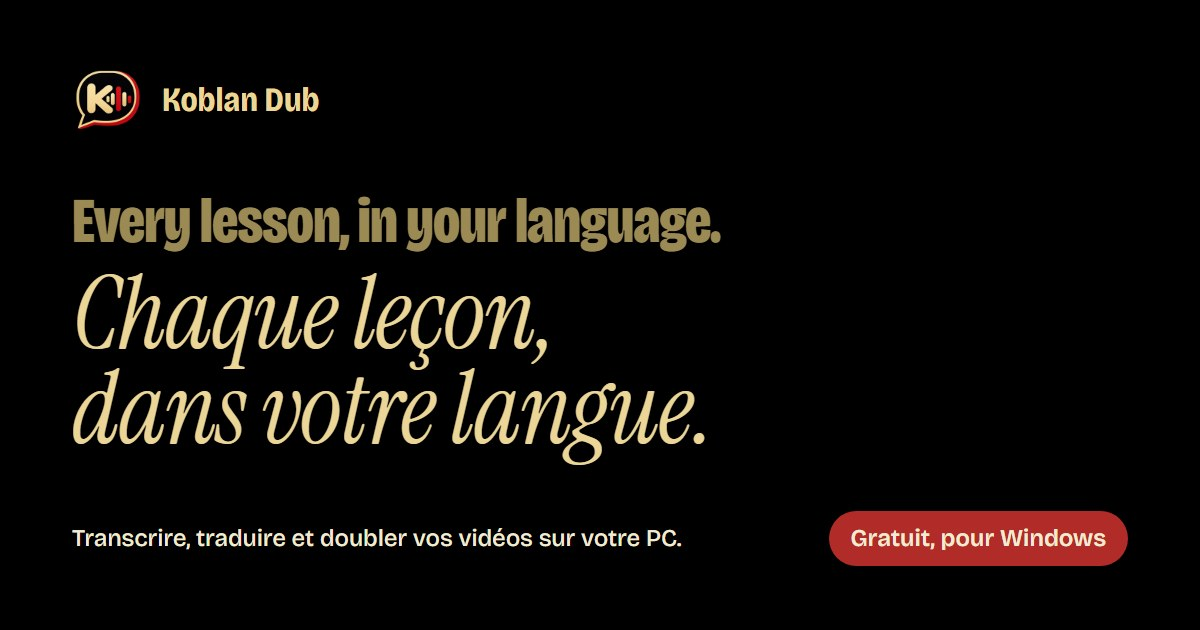
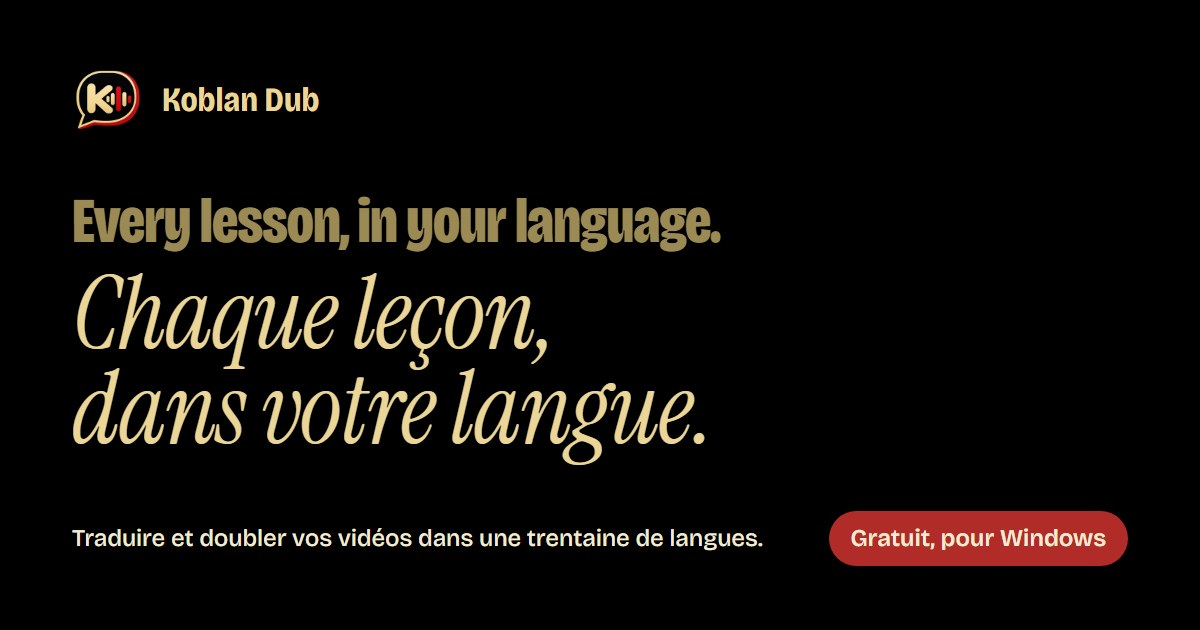
Site : toutes les langues (accueil en 5 langues, section langues), bouton Tout telecharger, FAQ fichier manquant

Changed region(s): [[0.0925, 0.8444, 0.6475, 0.8746]]

diff --git a/index.html b/index.html
@@ -4,11 +4,11 @@
 <meta charset="utf-8">
 <meta name="viewport" content="width=device-width, initial-scale=1">
 <title>Koblan Dub — traduire et doubler vos vidéos</title>
-<meta name="description" content="Koblan Dub transcrit, traduit et double vos vidéos dans votre langue, sur votre PC. Gratuit, pour Windows 10 et 11.">
+<meta name="description" content="Koblan Dub transcrit, traduit et double vos vidéos dans une trentaine de langues, sur votre PC. Gratuit, pour Windows 10 et 11.">
 <meta name="theme-color" content="#000000">
 <meta property="og:type" content="website">
 <meta property="og:title" content="Koblan Dub — chaque leçon, dans votre langue">
-<meta property="og:description" content="Transcrire, traduire et doubler une vidéo sur votre PC. Gratuit, pour Windows.">
+<meta property="og:description" content="Transcrire, traduire et doubler une vidéo dans une trentaine de langues, sur votre PC. Gratuit, pour Windows.">
 <meta property="og:image" content="https://koblan-dub.vercel.app/assets/img/partage.jpg">
 <meta name="twitter:card" content="summary_large_image">
 <link rel="icon" type="image/png" sizes="32x32" href="assets/favicon-32.png">
@@ -44,20 +44,20 @@
   <section class="accueil" id="haut" aria-labelledby="titre-accueil">
     <div class="accueil__scene">
       <h1 class="voix" id="titre-accueil" aria-label="Chaque leçon, dans votre langue.">
-        <span class="voix__ligne" data-en="Every lesson," data-fr="Chaque leçon,">Chaque leçon,</span>
-        <span class="voix__ligne" data-en="in your language." data-fr="dans votre langue.">dans votre langue.</span>
+        <span class="voix__ligne" data-l="Every lesson,|Cada lección,|Jede Lektion,|Cada lição,|Chaque leçon,">Chaque leçon,</span>
+        <span class="voix__ligne" data-l="in your language.|en tu idioma.|in deiner Sprache.|no seu idioma.|dans votre langue.">dans votre langue.</span>
       </h1>
 
       <div class="piste" aria-hidden="true">
         <span class="piste__rec"></span>
         <span class="piste__tc">00:00:01,200 --&gt; 00:00:03,800</span>
-        <span class="piste__langue">Voix doublée, français</span>
+        <span class="piste__langue">Doublée en français</span>
       </div>
 
       <canvas class="onde" aria-hidden="true"></canvas>
 
       <div class="accueil__pied">
-        <p class="accueil__texte">Koblan Dub transcrit, traduit et double vos vidéos, directement sur votre PC. Gratuit, pour Windows.</p>
+        <p class="accueil__texte">Koblan Dub transcrit, traduit et double vos vidéos dans une trentaine de langues, directement sur votre PC. Gratuit, pour Windows.</p>
         <div class="accueil__actions">
           <a class="bouton bouton--rouge bouton--grand aimant" href="#telecharger">
             <svg class="ico" aria-hidden="true"><use href="assets/icones.svg#i-download-simple"/></svg>
@@ -73,15 +73,30 @@
   <section class="bloc atelier" id="atelier" aria-labelledby="titre-atelier">
     <div class="bloc__tete">
       <h2 id="titre-atelier">Tout se règle sur un seul écran.</h2>
-      <p>Choisissez la vidéo, cliquez sur Démarrer. Le reste est déjà réglé : anglais vers français, voix française, sous-titres incrustés, sortie en MP4.</p>
+      <p>Choisissez la vidéo et la langue d'arrivée, cliquez sur Démarrer. Tout le reste est prêt : transcription, traduction, voix, sous-titres incrustés, sortie en MP4.</p>
     </div>
     <figure class="atelier__cadre">
       <img src="assets/img/atelier-1600.webp" srcset="assets/img/atelier-900.webp 900w, assets/img/atelier-1600.webp 1600w" sizes="(max-width: 900px) 100vw, 1200px" width="1600" height="849" loading="lazy" decoding="async" alt="L'écran principal de Koblan Dub : choix de la vidéo, transcription locale, traduction, voix française M2 et bouton Démarrer.">
     </figure>
-    <div class="soustitre" aria-label="Exemple de sous-titre avant et après">
-      <p class="soustitre__vo" lang="en">“Welcome to the course. Today, we’ll see how networks talk to each other.”</p>
-      <p class="soustitre__vf">« Bienvenue dans la formation. Aujourd’hui, nous allons voir comment les réseaux communiquent. »</p>
+  </section>
+
+  <!-- LANGUES -->
+  <section class="bloc langues" id="langues" aria-labelledby="titre-langues">
+    <div class="bloc__tete">
+      <h2 id="titre-langues">Une trentaine de langues, au départ comme à l'arrivée.</h2>
+      <p>Une formation en espagnol vers le français, un cours français vers l'anglais, une vidéo chinoise vers l'arabe : choisissez la langue de la vidéo et celle que vous voulez entendre.</p>
     </div>
+    <ul class="langues__liste">
+      <li>Français</li><li>Anglais</li><li>Espagnol</li><li>Portugais</li><li>Allemand</li><li>Italien</li>
+      <li>Néerlandais</li><li>Arabe</li><li>Chinois simplifié</li><li>Chinois traditionnel</li><li>Cantonais</li>
+      <li>Japonais</li><li>Coréen</li><li>Hindi</li><li>Bengali</li><li>Ourdou</li><li>Persan</li><li>Turc</li>
+      <li>Russe</li><li>Ukrainien</li><li>Polonais</li><li>Tchèque</li><li>Hongrois</li><li>Grec</li><li>Suédois</li>
+      <li>Hébreu</li><li>Thaï</li><li>Vietnamien</li><li>Indonésien</li><li>Malais</li><li>Filipino</li><li>Kazakh</li>
+    </ul>
+    <p class="langues__note">
+      <svg class="ico" aria-hidden="true"><use href="assets/icones.svg#i-wifi-slash"/></svg>
+      <span>La transcription et la voix française intégrée fonctionnent sans connexion. La traduction (Google) et les voix des autres langues (Edge-TTS) sont gratuites et passent par internet.</span>
+    </p>
   </section>
 
   <!-- MODES -->
@@ -96,7 +111,7 @@
         <svg class="ico ico--mode" aria-hidden="true"><use href="assets/icones.svg#i-film-strip"/></svg>
         <div class="mode__texte">
           <h3>Traduire une vidéo</h3>
-          <p>Donnez une vidéo en anglais, récupérez-la doublée en français avec ses sous-titres. Transcription, traduction, voix et montage s'enchaînent seuls.</p>
+          <p>Donnez une vidéo dans une langue, récupérez-la doublée et sous-titrée dans une autre. Transcription, traduction, voix et montage s'enchaînent seuls.</p>
         </div>
         <div class="clip"><span class="clip__remplissage"></span><span class="clip__sortie">Vidéo MP4 doublée</span></div>
       </li>
@@ -171,7 +186,7 @@
       <li>
         <svg class="ico" aria-hidden="true"><use href="assets/icones.svg#i-chalkboard-teacher"/></svg>
         <h3>Celles et ceux qui se forment</h3>
-        <p>Ce cours en ligne acheté en anglais, suivez-le enfin dans votre langue.</p>
+        <p>Ce cours en ligne acheté dans une langue étrangère, suivez-le enfin dans la vôtre.</p>
       </li>
       <li>
         <svg class="ico" aria-hidden="true"><use href="assets/icones.svg#i-video-camera"/></svg>
@@ -204,8 +219,8 @@
     <ol class="etapes__liste">
       <li>
         <span class="etapes__num" aria-hidden="true">1</span>
-        <h3>Choisissez la vidéo</h3>
-        <p>Une seule, ou tout un dossier d'un coup.</p>
+        <h3>Choisissez la vidéo et la langue</h3>
+        <p>Une seule vidéo ou tout un dossier d'un coup, puis la langue que vous voulez entendre.</p>
       </li>
       <li>
         <span class="etapes__num" aria-hidden="true">2</span>
@@ -215,7 +230,7 @@
       <li>
         <span class="etapes__num" aria-hidden="true">3</span>
         <h3>Ouvrez le résultat</h3>
-        <p>Votre vidéo en MP4, avec la voix et les sous-titres en français.</p>
+        <p>Votre vidéo en MP4, avec la voix et les sous-titres dans la langue choisie.</p>
       </li>
     </ol>
     <p class="etapes__note">
@@ -228,9 +243,18 @@
   <section class="bloc telecharger" id="telecharger" aria-labelledby="titre-telecharger">
     <div class="bloc__tete">
       <h2 id="titre-telecharger">Télécharger Koblan Dub</h2>
-      <p>Gratuit, pour Windows 10 et 11 (64 bits). Le logiciel est livré en 4 fichiers, 4,1 Go au total : téléchargez-les tous.</p>
+      <p>Gratuit, pour Windows 10 et 11 (64 bits). Le logiciel pèse 4,1 Go : il est livré en 4 fichiers, que ce bouton télécharge d'un seul clic.</p>
     </div>
 
+    <div class="tout">
+      <button type="button" class="bouton bouton--rouge bouton--grand aimant" id="tout-telecharger">
+        <svg class="ico" aria-hidden="true"><use href="assets/icones.svg#i-download-simple"/></svg>
+        <span>Tout télécharger <span class="nowrap">(4 fichiers, 4,1&nbsp;Go)</span></span>
+      </button>
+      <p class="tout__etat" id="tout-etat" role="status" aria-live="polite"></p>
+    </div>
+
+    <p class="fichiers__titre">Ou fichier par fichier, si un téléchargement a échoué :</p>
     <ol class="fichiers">
       <li><a class="fichier" href="https://github.com/josuekoblan03-lab/koblan-dub/releases/download/v1.0/KoblanDub-Setup.exe">
         <span class="fichier__num" aria-hidden="true">1</span>
@@ -263,11 +287,11 @@
       <ol class="installer__etapes">
         <li>
           <svg class="ico" aria-hidden="true"><use href="assets/icones.svg#i-folder-simple"/></svg>
-          <p>Mettez les 4 fichiers <strong>dans le même dossier</strong>, sans les renommer.</p>
+          <p>Attendez la fin des 4 téléchargements : ils arrivent ensemble dans votre dossier <strong>Téléchargements</strong>. Laissez-les dans ce même dossier.</p>
         </li>
         <li>
           <svg class="ico" aria-hidden="true"><use href="assets/icones.svg#i-play"/></svg>
-          <p>Double-cliquez sur <strong>KoblanDub-Setup.exe</strong> et suivez les étapes.</p>
+          <p>Ouvrez <strong>KoblanDub-Setup.exe</strong> et suivez les étapes. Les 3 autres fichiers sont lus automatiquement.</p>
         </li>
         <li>
           <svg class="ico" aria-hidden="true"><use href="assets/icones.svg#i-shield-check"/></svg>
@@ -308,7 +332,7 @@ bbec8f13c3aee3efc68214296c04398cc3462800a4f33eee36a978a703a0b784  KoblanDub-Setu
       </details>
       <details>
         <summary>Quelles langues ?<svg class="ico" aria-hidden="true"><use href="assets/icones.svg#i-caret-down"/></svg></summary>
-        <p>Une trentaine, au départ comme à l'arrivée : anglais, français, espagnol, portugais, arabe, chinois, russe, allemand, japonais, turc et bien d'autres. Le logiciel est réglé par défaut de l'anglais vers le français. La voix intégrée est française ; pour doubler dans une autre langue, choisissez une voix Edge-TTS (en ligne).</p>
+        <p>Une trentaine, au départ comme à l'arrivée : français, anglais, espagnol, portugais, arabe, chinois, russe, allemand, japonais, turc et bien d'autres (la liste complète est plus haut). À l'installation, le logiciel est réglé de l'anglais vers le français : changez simplement la langue source et la langue cible. Pour doubler dans une autre langue que le français, choisissez une voix Edge-TTS (gratuite, en ligne).</p>
       </details>
       <details>
         <summary>Combien de temps prend une vidéo ?<svg class="ico" aria-hidden="true"><use href="assets/icones.svg#i-caret-down"/></svg></summary>
@@ -317,6 +341,10 @@ bbec8f13c3aee3efc68214296c04398cc3462800a4f33eee36a978a703a0b784  KoblanDub-Setu
       <details>
         <summary>Ma vidéo est sortie sans voix française.<svg class="ico" aria-hidden="true"><use href="assets/icones.svg#i-caret-down"/></svg></summary>
         <p>Vérifiez que la case « Voix » n'est pas réglée sur « No », puis relancez.</p>
+      </details>
+      <details>
+        <summary>L'installation réclame un fichier manquant.<svg class="ico" aria-hidden="true"><use href="assets/icones.svg#i-caret-down"/></svg></summary>
+        <p>Vérifiez que les 4 fichiers sont bien arrivés en entier dans le même dossier, et qu'ils portent exactement les noms ci-dessus. Si vous avez téléchargé un fichier deux fois, le navigateur a pu nommer la copie « KoblanDub-Setup-1 (1).bin » : gardez l'original et supprimez les copies. Un fichier interrompu se retélécharge avec la liste « fichier par fichier ».</p>
       </details>
       <details>
         <summary>Et sur Mac ou Linux ?<svg class="ico" aria-hidden="true"><use href="assets/icones.svg#i-caret-down"/></svg></summary>

diff --git a/main.js b/main.js
@@ -35,9 +35,12 @@
   });
 
   /* ---------- la phrase qui change de langue ---------- */
+  // anglais → espagnol → allemand → portugais → français : la voix change de langue à chaque étape
+  var LANGUES = ["Voix originale, anglais", "Doublée en espagnol", "Doublée en allemand", "Doublée en portugais", "Doublée en français"];
+  var ETAPES = LANGUES.length - 1;
   var lignes = Array.prototype.map.call(document.querySelectorAll(".voix__ligne"), function (el, li) {
-    var en = el.dataset.en, fr = el.dataset.fr;
-    var n = Math.max(en.length, fr.length);
+    var textes = el.dataset.l.split("|");
+    var n = Math.max.apply(null, textes.map(function (t) { return t.length; }));
     el.textContent = "";
     el.setAttribute("aria-hidden", "true");
     var cases = [];
@@ -47,27 +50,36 @@
       el.appendChild(s);
       cases.push(s);
     }
-    return { en: en, fr: fr, n: n, cases: cases, li: li };
+    return { textes: textes, n: n, cases: cases, li: li };
   });
 
   function lettre(c) { return (c === undefined || c === " ") ? ESPACE : c; }
 
-  // fenêtre de balayage : la tête de lecture traverse la phrase entre DEBUT et DEBUT + COURSE
-  var DEBUT = 0.06, COURSE = 0.7, FONDU = 0.12;
+  // p global (0..1) → étape k (passage de la langue k à k+1) et avancement local q (0..1)
+  function decouper(p) {
+    var x = Math.min(p, 0.99999) * ETAPES;
+    var k = Math.floor(x);
+    return { k: k, q: p >= 1 ? 1 : x - k };
+  }
+  // dans une étape, la tête de lecture traverse la phrase entre DEBUT et DEBUT + COURSE
+  var DEBUT = 0.05, COURSE = 0.62, FONDU = 0.2;
   function seuil(L, i) { return DEBUT + ((i + L.li * 1.5) / (L.n + 3)) * COURSE; }
+  function etatDe(index) { return index === 0 ? "src" : "cible"; }
 
   var dernier = -1;
   function rendre(p) {
     if (Math.abs(p - dernier) < 0.0015) return;
     dernier = p;
+    var d = decouper(p);
     lignes.forEach(function (L) {
+      var avant = L.textes[d.k], apres = L.textes[d.k + 1];
       for (var i = 0; i < L.n; i++) {
-        var q = (p - seuil(L, i)) / FONDU, etat, c;
-        if (q <= 0) { etat = "en"; c = L.en[i]; }
-        else if (q >= 1) { etat = "fr"; c = L.fr[i]; }
+        var q = (d.q - seuil(L, i)) / FONDU, etat, c;
+        if (q <= 0) { etat = etatDe(d.k); c = avant[i]; }
+        else if (q >= 1) { etat = etatDe(d.k + 1); c = apres[i]; }
         else {
           etat = "bruit";
-          var cible = L.fr[i];
+          var cible = apres[i];
           c = (cible === undefined || cible === " ") ? " " : GLYPHES.charAt((Math.random() * GLYPHES.length) | 0);
         }
         var s = L.cases[i], ch = lettre(c);
@@ -88,7 +100,9 @@
   function majPiste(p) {
     var debut = 1200 + Math.round(p * 5400);
     tc.textContent = horodatage(debut) + " --> " + horodatage(debut + 2600);
-    langue.textContent = p < 0.45 ? "Voix originale, anglais" : "Voix doublée, français";
+    var d = decouper(p);
+    var texte = LANGUES[d.q > DEBUT + COURSE / 2 ? d.k + 1 : d.k];
+    if (langue.textContent !== texte) langue.textContent = texte;
   }
 
   /* ---------- l'onde : barres arrondies comme le logo, la barre rouge balaie ---------- */
@@ -116,7 +130,7 @@
     ctx.clearRect(0, 0, W, H);
     var pas = W < 640 ? 7 : 9, l = Math.max(3, Math.round(pas * 0.5));
     var n = Math.floor(W / pas);
-    var balayage = Math.min(1, Math.max(0, (etat.p - DEBUT) / COURSE));
+    var balayage = Math.min(1, Math.max(0, (decouper(etat.p).q - DEBUT) / (COURSE + FONDU / 2)));
     var xRouge = balayage * (W - l);
     for (var i = 0; i < n; i++) {
       var x = i * pas;
@@ -155,7 +169,7 @@
     ScrollTrigger.create({
       trigger: ".accueil",
       start: "top top",
-      end: "+=120%",
+      end: "+=260%",
       pin: ".accueil__scene",
       scrub: true,
       onUpdate: function (self) {
@@ -177,6 +191,40 @@
         scaleX: 1, ease: "none",
         scrollTrigger: { trigger: m, start: "top 88%", end: "top 40%", scrub: true }
       });
+    });
+  }
+
+  /* ---------- « Tout télécharger » : les 4 fichiers, l'un après l'autre ---------- */
+  var boutonTout = document.getElementById("tout-telecharger");
+  var etatTout = document.getElementById("tout-etat");
+  if (boutonTout) {
+    boutonTout.addEventListener("click", function () {
+      var liens = Array.prototype.map.call(document.querySelectorAll(".fichier"), function (a) { return a.href; });
+      boutonTout.disabled = true;
+      etatTout.textContent = "Lancement des 4 téléchargements… Si votre navigateur demande d'autoriser plusieurs téléchargements, cliquez sur Autoriser.";
+      liens.forEach(function (url, i) {
+        setTimeout(function () {
+          var a = document.createElement("a");
+          a.href = url; a.rel = "noopener"; a.style.display = "none";
+          document.body.appendChild(a); a.click(); a.remove();
+          if (i === liens.length - 1) {
+            etatTout.textContent = "Les 4 téléchargements sont lancés. Quand ils sont tous terminés, ouvrez KoblanDub-Setup.exe depuis votre dossier Téléchargements.";
+            boutonTout.disabled = false;
+          }
+        }, i * 1500);
+      });
+    });
+  }
+
+  /* ---------- les langues s'allument une à une au défilement ---------- */
+  if (!reduit) {
+    var noms = document.querySelectorAll(".langues__liste li");
+    ScrollTrigger.create({
+      trigger: ".langues__liste", start: "top 80%", end: "bottom 45%", scrub: true,
+      onUpdate: function (self) {
+        var allumes = Math.round(self.progress * noms.length);
+        noms.forEach(function (li, i) { li.classList.toggle("allume", i < allumes); });
+      }
     });
   }
 

diff --git a/style.css b/style.css
@@ -93,6 +93,8 @@ ul, ol { padding: 0; list-style: none; }
 .bouton--trait { border: 1px solid var(--trait); color: var(--or); }
 .bouton--trait:hover { border-color: var(--or); }
 .bouton--grand { min-height: 3.5rem; padding: .9rem 1.6rem; font-size: 1.0625rem; }
+button.bouton { border: 0; font-family: inherit; cursor: pointer; }
+button.bouton:disabled { opacity: .6; cursor: progress; }
 
 /* ---------- en-tête : le bouton Télécharger reste toujours visible ---------- */
 .entete {
@@ -152,7 +154,7 @@ ul, ol { padding: 0; list-style: none; }
 
 /* sans JavaScript : la phrase s'affiche directement en français */
 html:not(.js) .voix__ligne,
-.voix__ligne .c[data-e="fr"] {
+.voix__ligne .c[data-e="cible"] {
   font-family: var(--serif);
   font-style: italic;
   font-weight: 400;
@@ -229,16 +231,22 @@ h3 { font-weight: 650; font-stretch: 90%; font-size: 1.375rem; line-height: 1.2;
   transform-origin: 50% 0;
   background: var(--voile);
 }
-.soustitre {
-  display: grid; gap: .5rem;
-  max-width: 50rem; margin: 2.5rem auto 0;
-  text-align: center;
+/* ---------- langues : un nuage de noms, le français mis en voix ---------- */
+.langues__liste {
+  display: flex; flex-wrap: wrap; gap: .35em 1.1em;
+  font-weight: 650; font-stretch: 80%;
+  font-variation-settings: "opsz" 48;
+  font-size: clamp(1.6rem, 3.6vw, 3rem); line-height: 1.15; letter-spacing: -.015em;
+  color: var(--or-eteint);
 }
-.soustitre__vo { font-size: 1rem; color: var(--or-eteint); }
-.soustitre__vf {
-  font-family: var(--serif); font-style: italic;
-  font-size: clamp(1.5rem, 3vw, 2.25rem); line-height: 1.25; color: var(--or);
+.langues__liste li { transition: color .25s var(--ease); }
+.langues__liste li:hover { color: var(--or); }
+.langues__liste li.allume { color: var(--or); }
+.langues__note {
+  display: flex; gap: .75rem; align-items: flex-start;
+  margin-top: 2.5rem; max-width: 64ch; color: var(--or-eteint);
 }
+.langues__note .ico { margin-top: .15em; }
 
 /* ---------- modes : des pistes de montage ---------- */
 .modes__liste { border-top: 1px solid var(--trait); }
@@ -330,6 +338,12 @@ h3 { font-weight: 650; font-stretch: 90%; font-size: 1.375rem; line-height: 1.2;
 @media (max-width: 760px) { .etapes__liste { grid-template-columns: 1fr; } }
 
 /* ---------- télécharger ---------- */
+.tout { display: grid; justify-items: start; gap: 1rem; margin-bottom: 3rem; }
+.tout .bouton { white-space: normal; text-align: left; }
+.tout__etat { max-width: 60ch; color: var(--or); }
+.nowrap { white-space: nowrap; }
+.tout__etat:empty { display: none; }
+.fichiers__titre { margin-bottom: 1rem; color: var(--or-eteint); font-size: .9375rem; }
 .fichiers { display: grid; gap: .75rem; }
 .fichier {
   display: grid; grid-template-columns: 2.5rem 1fr auto 1.5rem;

diff --git a/outils/partage.html b/outils/partage.html
@@ -25,7 +25,7 @@
 <div class="carte">
   <div class="marque"><img src="../assets/img/logo-192.png" alt="">Koblan Dub</div>
   <h1><span class="en">Every lesson, in your language.</span><span class="fr">Chaque leçon,<br>dans votre langue.</span></h1>
-  <div class="bas"><span>Transcrire, traduire et doubler vos vidéos sur votre PC.</span><b>Gratuit, pour Windows</b></div>
+  <div class="bas"><span>Traduire et doubler vos vidéos dans une trentaine de langues.</span><b>Gratuit, pour Windows</b></div>
 </div>
 </body>
 </html>

diff --git a/README.md b/README.md
@@ -20,11 +20,11 @@ Koblan Dub est un atelier complet de traduction et de doublage pour Windows : il
 
 Le menu **Outils** ajoute : sous-titres bilingues (fusion de 2 SRT), conversion SRT/ASS/VTT/TXT, séparation voix et musique de fond, fusion vidéo/audio/sous-titres.
 
-La voix française de base fonctionne **hors ligne**. Les autres langues utilisent une voix en ligne (connexion internet nécessaire).
+Une trentaine de langues au départ comme à l'arrivée (français, anglais, espagnol, portugais, arabe, chinois, russe, allemand, japonais, turc…). La transcription et la voix française intégrée fonctionnent **hors ligne** ; la traduction et les voix des autres langues passent par internet (gratuitement).
 
 ## Télécharger et installer
 
-Rendez-vous sur la page [Releases](https://github.com/josuekoblan03-lab/koblan-dub/releases/latest) et téléchargez **les 4 fichiers** :
+Le plus simple : le bouton **Tout télécharger** sur [koblan-dub.vercel.app](https://koblan-dub.vercel.app/#telecharger). Sinon, sur la page [Releases](https://github.com/josuekoblan03-lab/koblan-dub/releases/latest), téléchargez **les 4 fichiers** :
 
 - `KoblanDub-Setup.exe`
 - `KoblanDub-Setup-1.bin`
